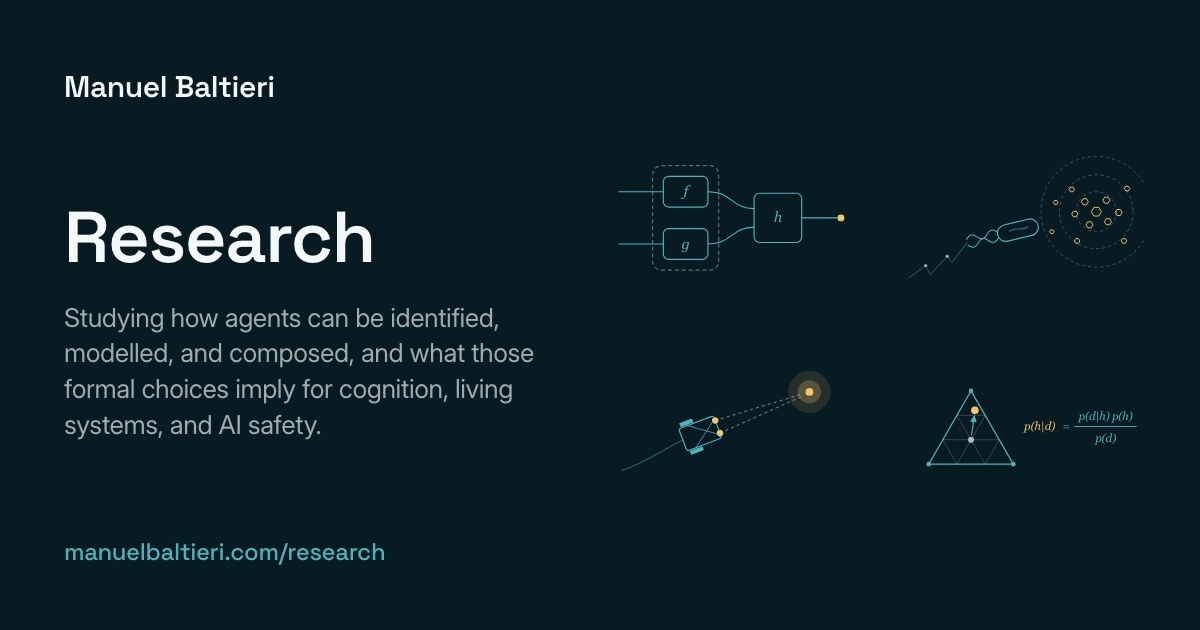
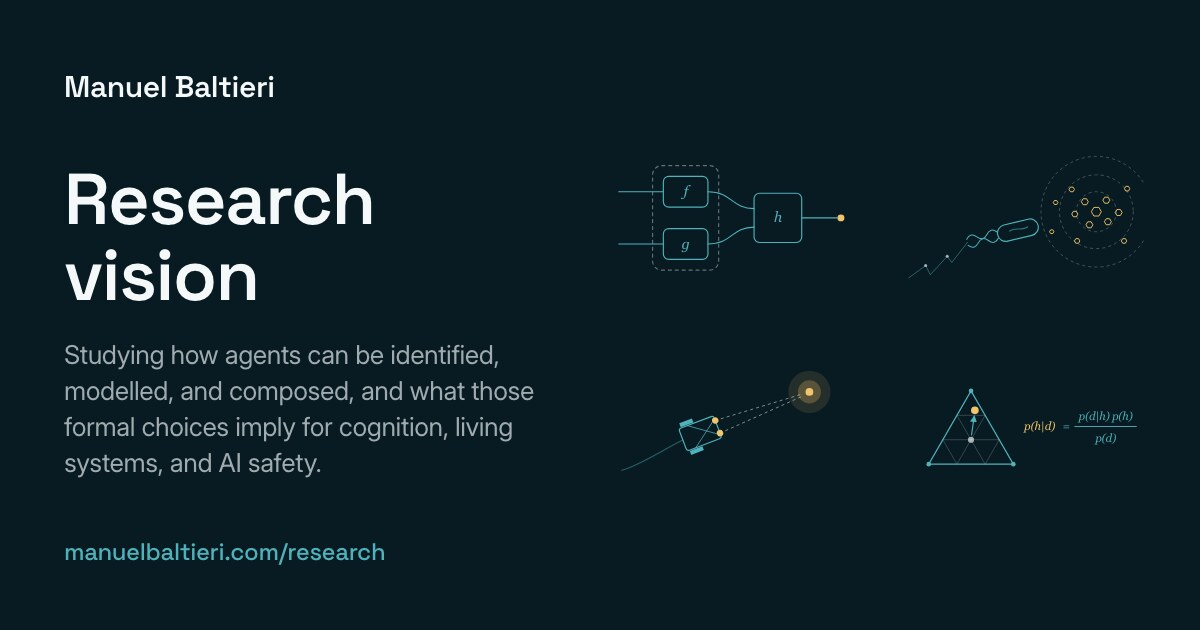
Research vision: the page renamed, without the cards or the numbers
The Research page is now Research vision, in the menu, the footer, its
title, its share preview and the link under the home page's research
agenda. The cards that led to Publications and Talks are gone, since
the menu has both, and the four areas of research go without their
numbers.

Changed region(s): [[0.0308, 0.2714, 0.4625, 0.6937], [0.0308, 0.7238, 0.2775, 0.754]]

diff --git a/src/navigation.ts b/src/navigation.ts
@@ -1,10 +1,9 @@
 import { getPermalink } from './utils/permalinks';
 
-// The four pages people come for. Publications and Talks are also reached from the Research page
-// and from each other.
+// The four pages people come for.
 export const headerData = {
   links: [
-    { text: 'Research', href: getPermalink('/research') },
+    { text: 'Research vision', href: getPermalink('/research') },
     { text: 'Publications', href: getPermalink('/research/publications') },
     { text: 'Talks', href: getPermalink('/research/talks') },
     { text: 'Resume', href: getPermalink('/resume') },
@@ -17,7 +16,7 @@ export const footerData = {
     {
       title: 'Site',
       links: [
-        { text: 'Research', href: getPermalink('/research') },
+        { text: 'Research vision', href: getPermalink('/research') },
         { text: 'Publications', href: getPermalink('/research/publications') },
         { text: 'Talks', href: getPermalink('/research/talks') },
         { text: 'Resume', href: getPermalink('/resume') },

diff --git a/src/utils/research.ts b/src/utils/research.ts
@@ -2,8 +2,8 @@ import yaml from 'js-yaml';
 
 import raw from '~/data/research.yaml?raw';
 
-// src/data/research.yaml: the areas of research of the Research page and their questions, as
-// written there. Its own comments say what each field is.
+// src/data/research.yaml: the areas of research of the Research vision page and their questions,
+// as written there. Its own comments say what each field is.
 
 export interface ResearchQuestionEntry {
   id: string;
@@ -19,7 +19,6 @@ export interface ResearchQuestionEntry {
 
 export interface ResearchAreaEntry {
   id: string;
-  number: string;
   name: string;
   keywords: string;
   title: string;

diff --git a/astro.config.ts b/astro.config.ts
@@ -30,7 +30,7 @@ export default defineConfig({
   // positions are on the Resume page.
   redirects: {
     '/about': '/resume/',
-    // Vision and the projects were folded into the questions of the Research page.
+    // Vision and the projects were folded into the questions of the Research vision page.
     '/vision': '/research/',
     '/projects': '/research/',
     '/projects/2019-11-03-uncertainty': '/research/#uncertainty',
